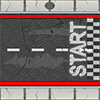
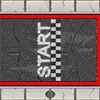
add asset and update game

diff --git a/display.py b/display.py
@@ -1,8 +1,32 @@
 import pygame
 import random
 from pygame.locals import *
+import numpy as np
+import math
 
-def displayMap(gameMap, screen, mapY, mapX):
+def generateBackground(gameMap, backY, backX, mapY, mapX):
+    backgroundSoil = pygame.image.load("./gameAsset/Soil_Tile.png").convert()
+    backgroundSoil1 = pygame.image.load("./gameAsset/Soil_Tile1.png").convert()
+    backgroundSoil2 = pygame.image.load("./gameAsset/Soil_Tile2.png").convert()
+    backgroundSoil3 = pygame.image.load("./gameAsset/Soil_Tile3.png").convert()
+    backgroundSoil4 = pygame.image.load("./gameAsset/Soil_Tile4.png").convert()
+    backgroundSoil5 = pygame.image.load("./gameAsset/Soil_Tile5.png").convert()
+    water = pygame.image.load("./gameAsset/Water_Tile.png").convert()
+
+    # background = []
+    background = [ backgroundSoil,  backgroundSoil1,  backgroundSoil2, backgroundSoil3, backgroundSoil4 , backgroundSoil5 ]
+    backMap =  [[np.random.choice(background, 1, p=[0.4, 0.01, 0.19, 0.19, 0.01, 0.20])[0] for x in range(backX)] for y in range(backY)] 
+    
+    for y in range (0, mapY):
+        for x in range (0, mapX):
+            if gameMap[y][x] != "0":
+                backMap[y + 2][x + 2] = backgroundSoil
+            else:
+                image = np.random.choice(background, 1, p=[0.3, 0.01, 0.19, 0.19, 0.01, 0.30])[0]
+                backMap[y + 2][x + 2] = image
+    return backMap
+
+def displayMap(gameMap, screen, mapY, mapX, margin):
     cornerTL = pygame.image.load("./gameAsset/cornerTL.png").convert_alpha()
     cornerTR = pygame.image.load("./gameAsset/cornerTR.png").convert_alpha()
     cornerBL = pygame.image.load("./gameAsset/cornerBL.png").convert_alpha()
@@ -20,8 +44,8 @@ def displayMap(gameMap, screen, mapY, mapX):
     horizontalBEnd = pygame.image.load("./gameAsset/horizontalBEnd.png").convert()
     horizontalTEnd = pygame.image.load("./gameAsset/horizontalTEnd.png").convert()
 
-    xPos = 0
-    yPos = 0
+    xPos = margin
+    yPos = margin
     for y in range(0, mapY):
         for x in range(0, mapX):
             if gameMap[y][x] == "/":
@@ -49,11 +73,11 @@ def displayMap(gameMap, screen, mapY, mapX):
             elif gameMap[y][x] == "r":
                 screen.blit(verticalREnd, (xPos, yPos))
             elif gameMap[y][x] == "b":
-                screen.blit(horizontalBEnd, (xPos, yPos))
-            elif gameMap[y][x] == "t":
                 screen.blit(horizontalTEnd, (xPos, yPos))
+            elif gameMap[y][x] == "t":
+                screen.blit(horizontalBEnd, (xPos, yPos))
             xPos += 100
-        xPos = 0
+        xPos = margin
         yPos += 100
 
 def displayBackground(backMap, screenY, screenX, screen):
@@ -66,24 +90,102 @@ def displayBackground(backMap, screenY, screenX, screen):
         xPos = 0
         yPos += 100
 
-def display(gameMap, backMap, screenY, screenX, mapY, mapX):
+def getStart(gameMap, mapY, mapX):
+    for y in range(0, mapY):
+        for x in range(0, mapX):
+            if gameMap[y][x] == "T":
+                return y, x, 180
+            elif gameMap[y][x] == "B":
+                return y, x, 0
+            elif gameMap[y][x] == "R":
+                return y, x, -90
+            elif gameMap[y][x] == "L":
+                return y, x, 90
+
+def display(gameMap, screenY, screenX, mapY, mapX):
          # Initialise screen
     pygame.init()
-
+    margin = 200
+    mainClock = pygame.time.Clock()
     screen = pygame.display.set_mode((screenX * 100, screenY * 100))
     pygame.display.set_caption('IA RACE GAME')
-
-    displayBackground(screenY, screenX, screen)
-    displayMap(gameMap, screen, mapY, mapX)
+    backMap = generateBackground(gameMap, screenY, screenX, mapY,  mapX)  
+    displayBackground(backMap, screenY, screenX, screen)
+    displayMap(gameMap, screen, mapY, mapX, margin)
     pygame.display.flip()
+    
+    left = False
+    right = False
+    forward = False
+    backward = False
 
+    carPosY, carPosX, baseDegree = getStart(gameMap, mapY, mapX)
+    car = pygame.transform.rotate(car, baseDegree)
+    degree = 0
+    print(carPosY)
+    carPosY = margin + 35 + carPosY * 100
+    carPosX = margin + 35 + carPosX * 100
+    speed = 1
     # Event loop
     while 1:
+        degree = 0
+        print(baseDegree)
+        if right: # don't need == True
+            degree -= 2
+            while degree < 0:
+                degree += 360
+        elif left: # don't need == True
+            degree += 2
+            while degree > 359:
+                degree -= 360
+
+        dx = math.cos(math.radians(baseDegree + degree))
+        dy = math.sin(math.radians(baseDegree + degree))
+
         for event in pygame.event.get():
             if event.type == QUIT:
                 pygame.quit()
-                exit()
 
-        displayBackground(screenY, screenX, screen)
-        displayMap(gameMap, screen, mapY, mapX)
+            if event.type == KEYDOWN:
+                if event.key == K_ESCAPE:
+                    pygame.quit()
+                elif event.key == K_a: # use constants K_a
+                    left = True
+                elif event.key == K_d: # use constants K_d
+                    right = True
+                elif event.key == K_w: # use constants K_w
+                    forward = True
+                elif event.key == K_s: # use constants K_s
+                    backward = True
+
+            if event.type == KEYUP:
+                if event.key == K_a: # use constants K_a
+                    left = False
+                elif event.key == K_d: # use constants K_d
+                    right = False
+                elif event.key == K_w: # use constants K_w
+                    forward = False
+                elif event.key == K_s: # use constants K_s
+                    backward = False
+
+        baseDegree += degree
+        if (baseDegree > 360 or baseDegree < 360):
+            baseDegree = 0
+        if forward:
+            carPosY -= int(speed * dx)
+            carPosX -= int(speed * dy)
+        elif backward:
+            carPosY += int(speed * dx)
+            carPosX += int(speed * dy)
+        
+
+        # if forward:
+        #     if baseDegree == 0
+        #         carPosY += 1 
+        #     carPosX += 0
+        car = pygame.transform.rotate(car, degree)
+        displayBackground(backMap, screenY, screenX, screen)
+        displayMap(gameMap, screen, mapY, mapX, margin)
+        screen.blit(car, (carPosX, carPosY))
         pygame.display.flip()
+        mainClock.tick(10)

diff --git a/main.py b/main.py
@@ -138,37 +138,15 @@ def generateMap(length, rowY, colX):
     gameMap = addEndTile(gameMap, coordY, coordX, direction, directions)
     return gameMap, idx + 1
 
-def generateBackground(gameMap, backY, backX, mapY, mapX):
-    grass = pygame.image.load("./gameAsset/Grass_Tile.png").convert()
-    backgroundSoil = pygame.image.load("./gameAsset/Soil_Tile.png").convert()
-    backgroundSoil1 = pygame.image.load("./gameAsset/Soil_Tile1.png").convert()
-    backgroundSoil2 = pygame.image.load("./gameAsset/Soil_Tile2.png").convert()
-    backgroundSoil3 = pygame.image.load("./gameAsset/Soil_Tile3.png").convert()
-    water = pygame.image.load("./gameAsset/Water_Tile.png").convert()
-
-    background = []
-    background.extend((backgroundGrass, backgroundSoil, backgroundSoil, backgroundSoil, backgroundSoil2,  backgroundSoil2,  backgroundSoil1, backgroundSoil3, backgroundSoil3 ))
-    backMap =  [[water for x in range(backX)] for y in range(backY)] 
-    for y in range (0, mapY):
-        for x in range (0, mapX):
-            if gameMap[y][x] != "0":
-                backMap[y + 2][x + 2] = grass
-            else:
-                image = random.choice(background)
-                backMap[y + 2][x + 2] = image
-    return backMap
-
 if __name__ == '__main__':
 
     screenX = 16
-    screenY = 12
+    screenY = 10
 
     gameMapX = screenX - 4
     gameMapY = screenY - 4
-
-    gameMap, length = generateMap(40, gameMapY, gameMapX)
-    while length < 40:
-        gameMap, length = generateMap(40, gameMapY, gameMapX)
-        print(length)
-    backMap = generateBackground(gameMap, screenY, screenX, gameMapY,  gameMapX)    
-    display(gameMap, backMap, screenY, screenX, gameMapY, gameMapX)
+    lenRequired = 10
+    gameMap, length = generateMap(lenRequired, gameMapY, gameMapX)
+    while length < lenRequired:
+        gameMap, length = generateMap(lenRequired, gameMapY, gameMapX)
+    display(gameMap, screenY, screenX, gameMapY, gameMapX)
